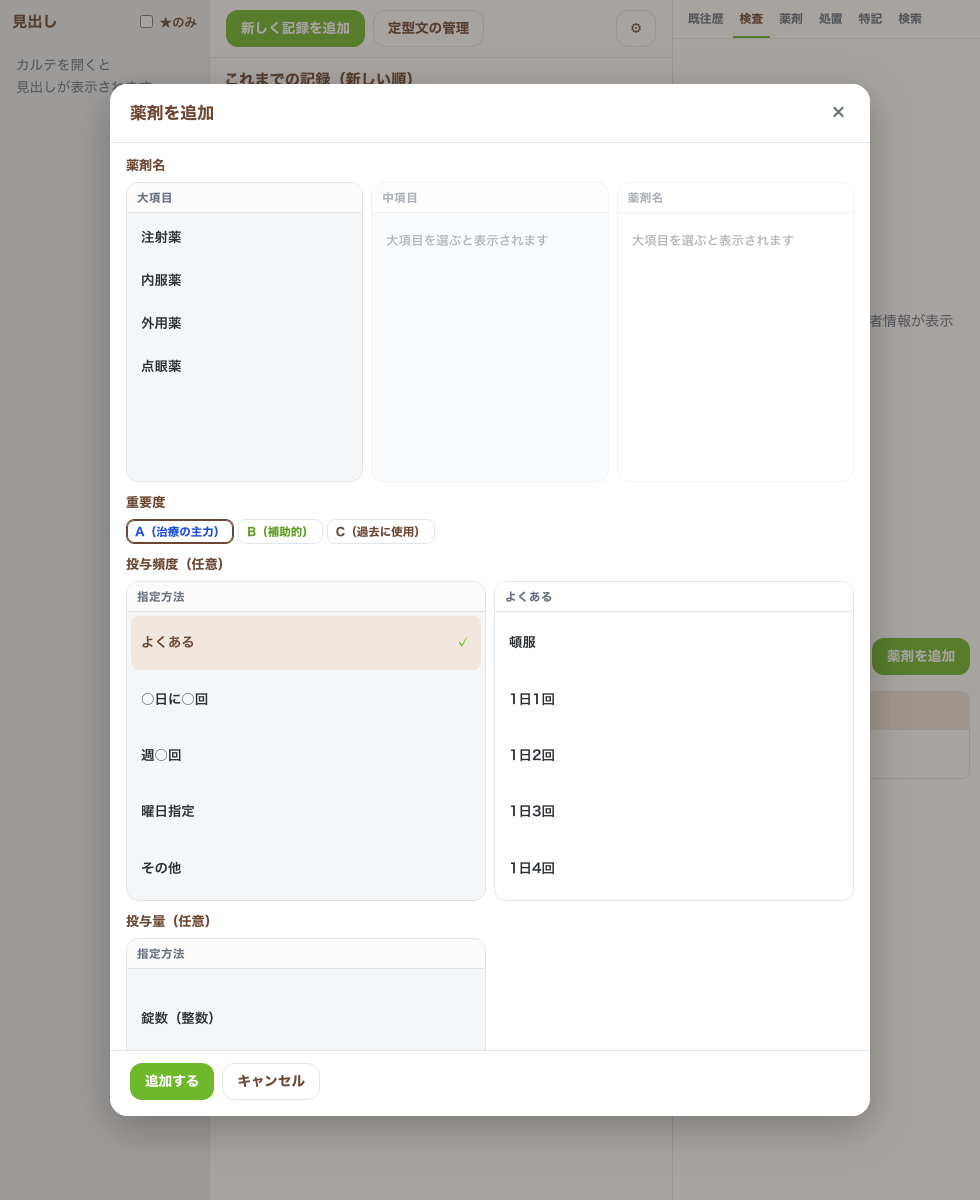
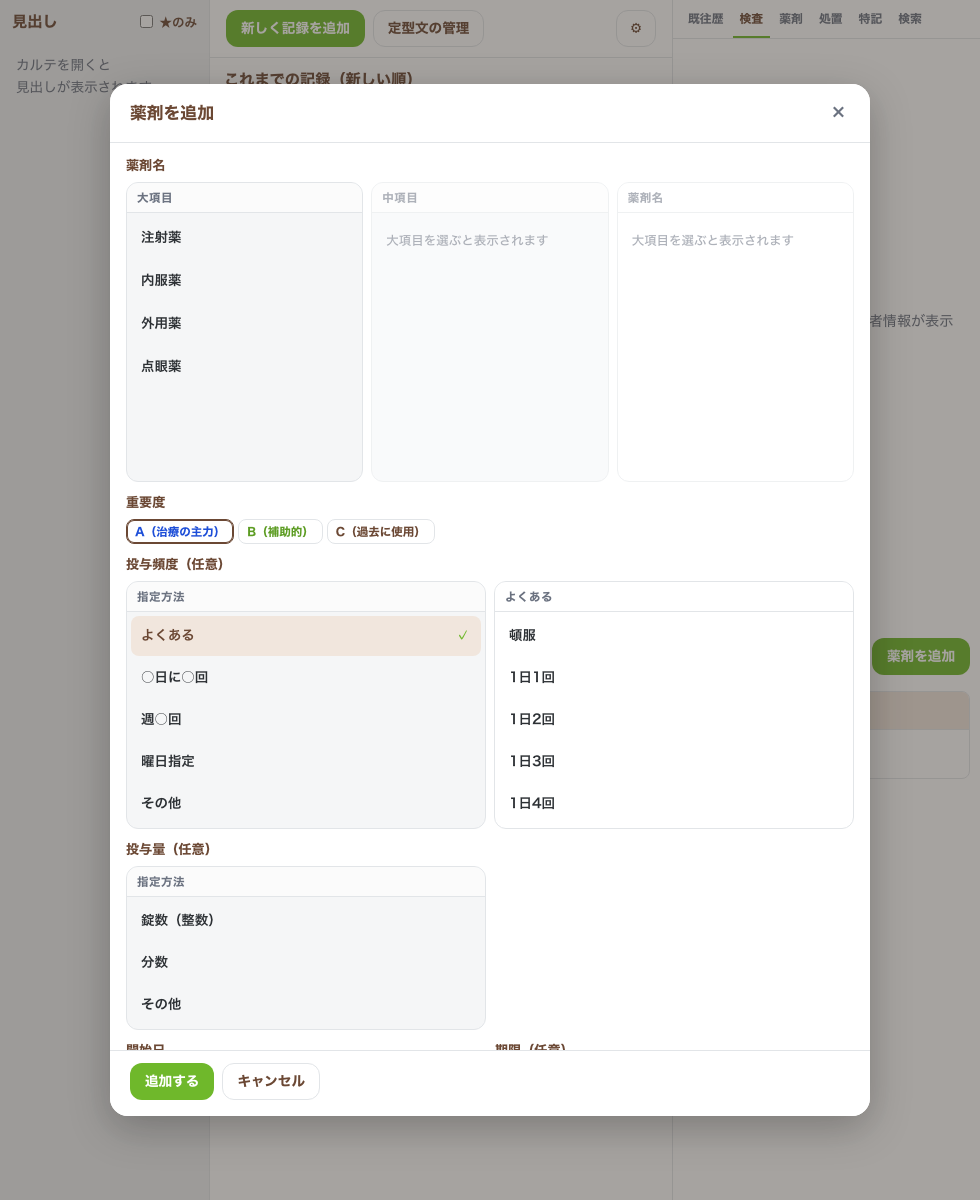
投与頻度・投与量の枠を行数ぶんのコンパクトな高さに縮める。

diff --git a/css/style.css b/css/style.css
@@ -3134,10 +3134,11 @@ select.input {
 }
 
 .modal__panel--med-add .med-linear-picker--freq,
-.modal__panel--med-event .med-linear-picker--freq {
-  min-height: 160px;
-  height: min(28vh, 220px);
-  max-height: min(28vh, 220px);
+.modal__panel--med-event .med-linear-picker--freq,
+.modal__panel--med-add .med-linear-picker--dose {
+  min-height: 0;
+  height: auto;
+  max-height: none;
 }
 
 /* 短いビューポート: 選択枠・ゲートテンキーを縮め、画面内スクロールを優先 */
@@ -3178,11 +3179,12 @@ select.input {
     flex-shrink: 1;
   }
 
-  .med-linear-picker--freq {
-    min-height: 120px;
-    height: min(24vh, 160px);
-    max-height: min(24vh, 160px);
-    flex-shrink: 1;
+  .med-linear-picker--freq,
+  .med-linear-picker--dose {
+    min-height: 0;
+    height: auto;
+    max-height: none;
+    flex-shrink: 0;
   }
 
   .modal__panel--exam-plan .med-linear-picker,
@@ -3193,10 +3195,11 @@ select.input {
   }
 
   .modal__panel--med-add .med-linear-picker--freq,
-  .modal__panel--med-event .med-linear-picker--freq {
-    min-height: 110px;
-    height: min(22vh, 150px);
-    max-height: min(22vh, 150px);
+  .modal__panel--med-event .med-linear-picker--freq,
+  .modal__panel--med-add .med-linear-picker--dose {
+    min-height: 0;
+    height: auto;
+    max-height: none;
   }
 
   .modal__body {
@@ -3233,11 +3236,13 @@ select.input {
   }
 
   .med-linear-picker--freq,
+  .med-linear-picker--dose,
   .modal__panel--med-add .med-linear-picker--freq,
-  .modal__panel--med-event .med-linear-picker--freq {
-    min-height: 96px;
-    height: min(20vh, 120px);
-    max-height: min(20vh, 120px);
+  .modal__panel--med-event .med-linear-picker--freq,
+  .modal__panel--med-add .med-linear-picker--dose {
+    min-height: 0;
+    height: auto;
+    max-height: none;
   }
 }
 
@@ -3341,20 +3346,26 @@ select.input {
   }
 }
 
+/* 頻度・投与量: 左の行数ぶんだけコンパクトに収める（引き伸ばさない） */
 .med-linear-picker--freq,
 .med-linear-picker.med-linear-picker--freq,
 .med-linear-picker.med-linear-picker--dose {
   display: grid;
   grid-template-columns: repeat(2, minmax(0, 1fr));
-  grid-template-rows: minmax(0, 1fr);
-  min-height: 200px;
-  height: min(40vh, 320px);
-  max-height: min(40vh, 320px);
+  grid-template-rows: auto;
+  align-items: stretch;
+  min-height: 0;
+  height: auto;
+  max-height: none;
   overflow: hidden;
-  /* 左の指定方法の行数。右の選択肢マス高さもこれに合わせる */
   --mode-rows: 5;
+  --mode-row-h: 40px;
   --mode-list-gap: 2px;
   --mode-list-pad: 4px;
+  --mode-list-h: calc(
+    var(--mode-rows) * var(--mode-row-h) + (var(--mode-rows) - 1) * var(--mode-list-gap) +
+      2 * var(--mode-list-pad)
+  );
 }
 
 .med-linear-picker--dose,
@@ -3362,24 +3373,36 @@ select.input {
   --mode-rows: 3;
 }
 
-/* 左: 指定方法を行数ぶん均等に伸ばす */
+.med-linear-picker--freq > .med-linear-picker__col {
+  height: auto;
+  max-height: none;
+}
+
+/* 左: 指定方法は通常の行高で、行数ぶんの高さだけ確保 */
 .med-linear-picker--freq > .med-linear-picker__col[data-col="mode"] > .med-linear-picker__list {
-  display: grid;
-  grid-template-rows: repeat(var(--mode-rows), minmax(0, 1fr));
+  display: flex;
+  flex-direction: column;
+  flex: 0 0 auto;
+  height: var(--mode-list-h);
+  max-height: var(--mode-list-h);
   gap: var(--mode-list-gap);
   padding: var(--mode-list-pad);
+  overflow: hidden;
 }
 
 .med-linear-picker--freq > .med-linear-picker__col[data-col="mode"] .med-linear-picker__item {
-  min-height: 0;
-  height: 100%;
-  padding-top: 4px;
-  padding-bottom: 4px;
+  flex: 0 0 var(--mode-row-h);
+  min-height: var(--mode-row-h);
+  height: var(--mode-row-h);
+  padding-top: 0;
+  padding-bottom: 0;
   box-sizing: border-box;
 }
 
 .freq-linear-detail {
-  flex: 1 1 auto;
+  flex: 0 0 auto;
+  height: var(--mode-list-h);
+  max-height: var(--mode-list-h);
   min-height: 0;
   overflow: hidden;
   -webkit-overflow-scrolling: touch;
@@ -3388,6 +3411,7 @@ select.input {
   display: flex;
   flex-direction: column;
   gap: 0;
+  box-sizing: border-box;
 }
 
 .freq-linear-detail > [hidden] {
@@ -3411,16 +3435,14 @@ select.input {
   gap: var(--mode-list-gap, 2px);
 }
 
-/* 右: 1マス高さを左の指定方法と同じにする（多い場合はスクロール） */
+/* 右: 左と同じコンパクトな行高（多い分は枠内スクロール） */
 .med-linear-picker--freq .freq-linear-detail .med-linear-picker__item {
-  flex: 0 0 auto;
+  flex: 0 0 var(--mode-row-h);
+  min-height: var(--mode-row-h);
+  height: var(--mode-row-h);
+  padding-top: 0;
+  padding-bottom: 0;
   box-sizing: border-box;
-  min-height: calc(
-    (100% - (var(--mode-rows) - 1) * var(--mode-list-gap)) / var(--mode-rows)
-  );
-  height: auto;
-  padding-top: 4px;
-  padding-bottom: 4px;
 }
 
 .freq-linear-detail .field__note {

diff --git a/service-worker.js b/service-worker.js
@@ -8,7 +8,7 @@
 //
 // ※ CACHE_VERSION を上げるときは js/app-version.js の APP_VERSION / CACHE_LABEL も合わせて更新する。
 
-const CACHE_VERSION = "v130";
+const CACHE_VERSION = "v131";
 const CACHE_NAME = `nyuta-karte-log-${CACHE_VERSION}`;
 
 const APP_SHELL_FILES = [

diff --git a/js/app-version.js b/js/app-version.js
@@ -1,3 +1,3 @@
 // アプリの表示用バージョン。Service Worker の CACHE_VERSION と合わせて更新する。
-export const APP_VERSION = "1.9.87";
-export const CACHE_LABEL = "v130";
+export const APP_VERSION = "1.9.88";
+export const CACHE_LABEL = "v131";
